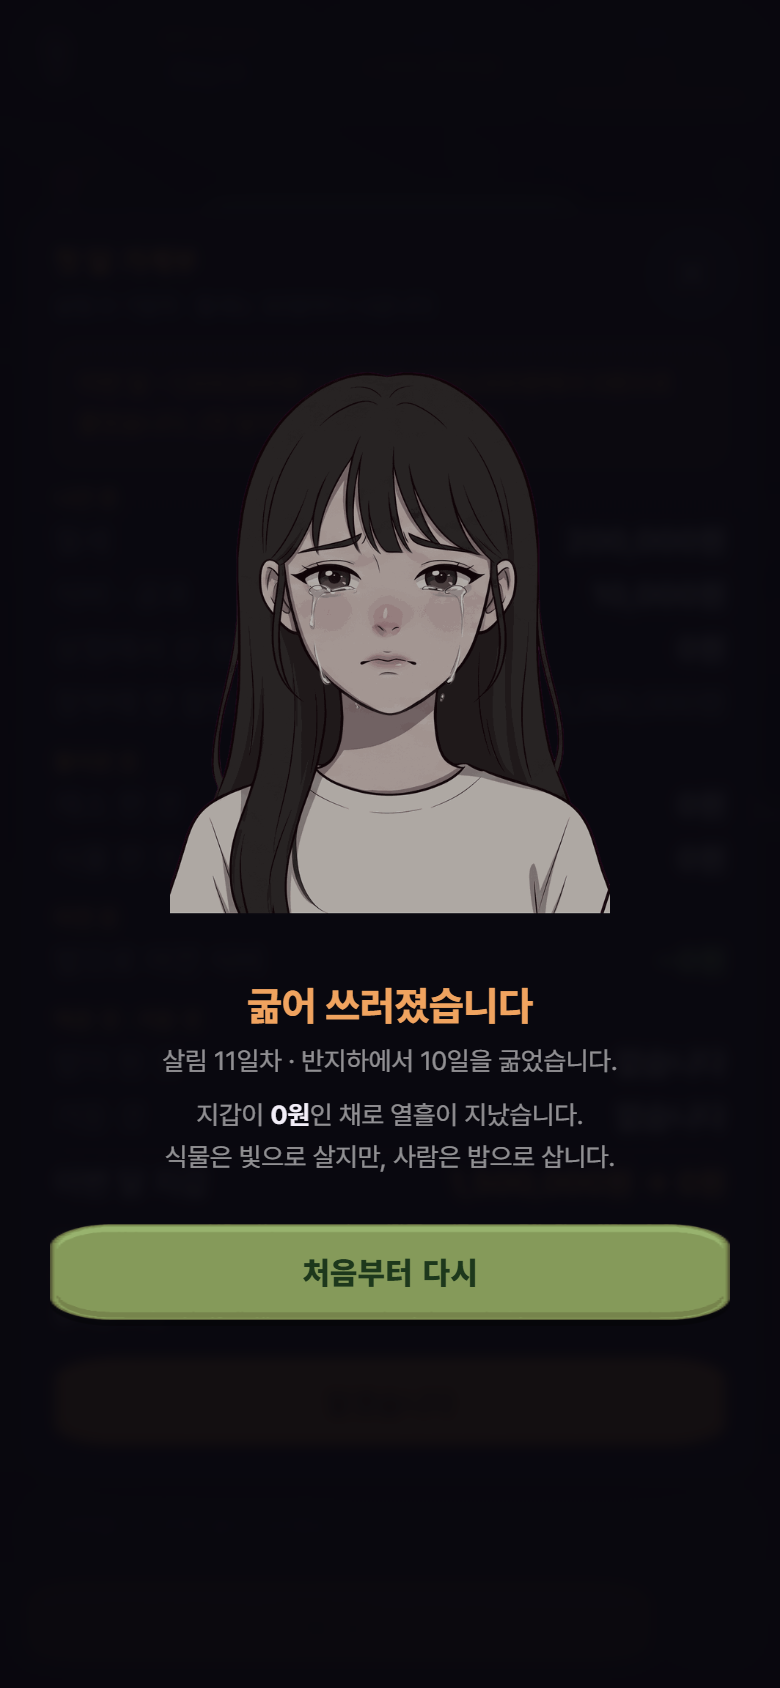
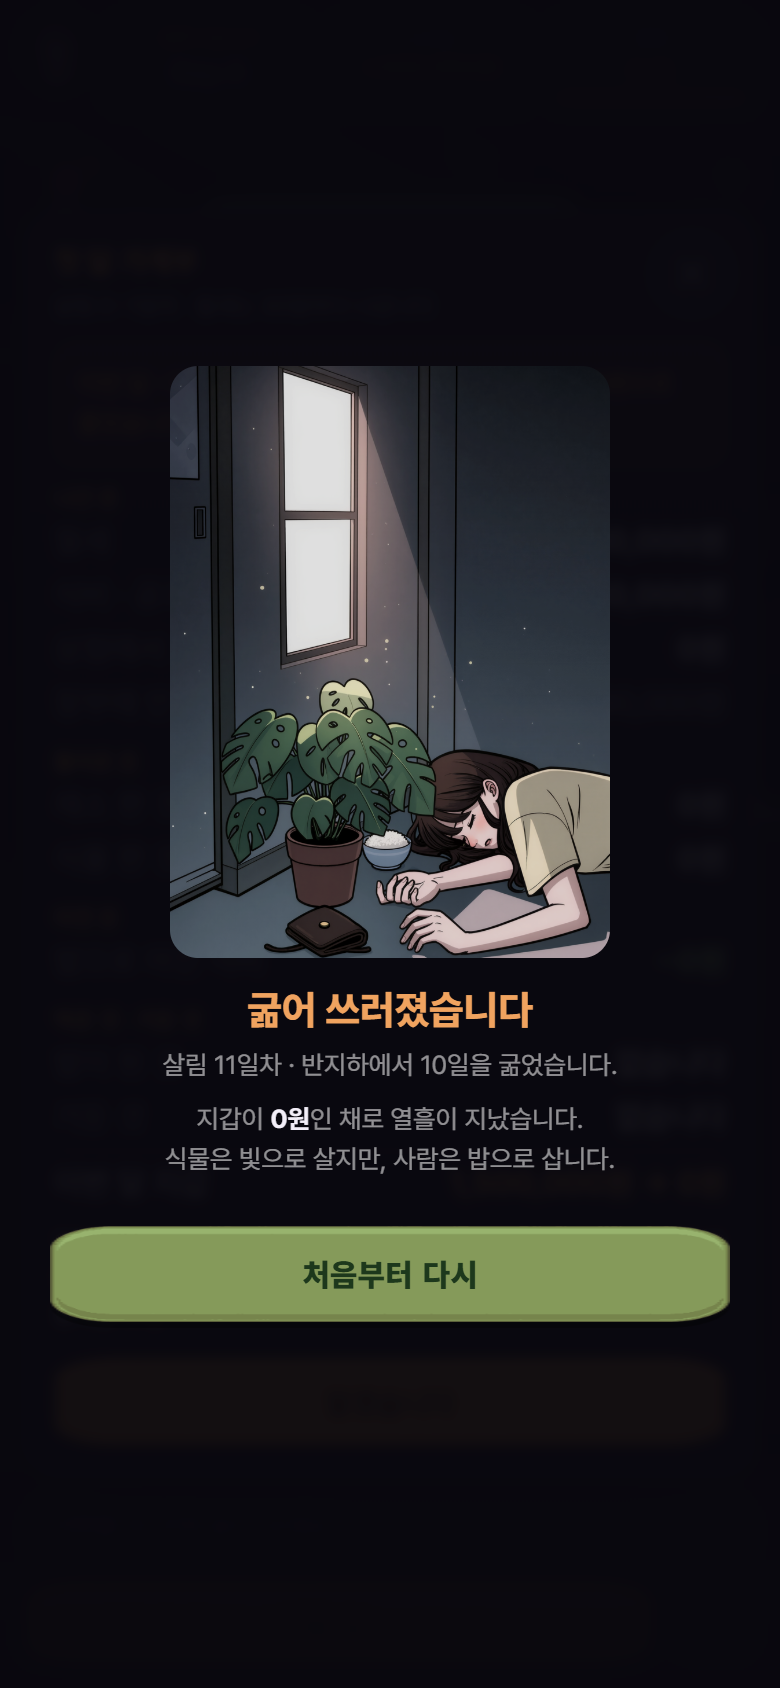
게임오버 원화(KLING) · 다시 시작할 때 WebGL 문맥을 놓아준다
★ 원화 — 박사님 *"클링으로 해, 원화"* · A안 확정.
  `kling-image-v3_0_omni` · 3:4 · 2k · 두 장 뽑아 A 를 골랐다. 방과 결이 맞는다:
  반지하의 높고 좁은 창 · 그 빛줄기 안에 선 몬스테라 · 쓰러진 사람 · 빈 지갑.
  1760×2368 원본을 **760px 로 줄여** 넣었다(4.3MB → 0.7MB). 대안(B)도 같이 남긴다.
  ⚠ 회색 필터를 걷었다 — 얼굴 초상과 달리 이건 **장면 그림**이라 색이 살아야 읽힌다.
  ⚠ 프롬프트에 「빈 밥그릇」이라 적었는데 **밥이 담긴 그릇**으로 나왔다. 작게 들어가
    티가 크지 않아 그대로 쓴다 — 다시 뽑으려면 크레딧이 또 든다(박사님 판단 필요).

★★ **다시 시작이 WebGL 문맥을 못 받던 것** (박사님 사진: *"다시 시작했는데 이렇게 나와"*
  → 「방을 그리지 못했습니다 — WebGL 문맥을 못 만들었습니다」)
  ⚠⚠ `renderer.dispose()` 는 **문맥을 안 버린다.** GPU 자원만 푼다 — 브라우저가 세는
    「살아 있는 WebGL 문맥」은 그대로 남는다. 그 수에는 천장이 있고(크롬 계열 대개 16),
    이 게임은 한 탭이 **둘**을 쓴다(방 + 확대창 iframe). 사진의 탭이 **열 개**였다.
  ⇒ `forceContextLoss()` 로 명시적으로 놓고, 다시 시작하는 두 길(게임오버 · 저장 지우기)이
    떠나기 **전에** 방을 치우고 확대창 iframe 을 비운다(§releaseGL).
  ⚠ 실패해도 떠나는 것은 안 막는다 — 못 치웠다고 다시 시작을 못 하면 그게 더 나쁘다.

Changed region(s): [[0.2154, 0.2156, 0.8, 0.7085], [0.4, 0.7393, 0.5231, 0.7701], [0.5538, 0.7393, 0.5846, 0.7701]]

diff --git a/game.html b/game.html
@@ -14,7 +14,7 @@
 <meta http-equiv="Pragma" content="no-cache">
 <meta http-equiv="Expires" content="0">
 <!-- 지금 보고 있는 판이 언제 것인지. 캐시가 의심되면 이걸 본다 -->
-<meta name="byeot-build" content="2026-08-17T-gameover">
+<meta name="byeot-build" content="2026-08-17T-art">
 <!-- ★★ 글씨 (2026-08-06 박사님: "글씨체가 이상해. 한글이 안 읽히네 뭔가. 잘 안 보여").
      Pretendard 를 **실제로 받아 온다.** 이름만 적어 두면 그 글씨가 깔린 기계에서만 보이고,
      안 깔린 기계에서는 조용히 system-ui 로 떨어진다 — 화면이 기계마다 달라진다.
@@ -1226,7 +1226,7 @@
   #gameOver.on{display:flex}
   #gameOver .card{max-width:340px;width:100%}
   #gameOver img{width:min(62vw,220px);height:auto;display:block;margin:0 auto 14px;
-    border-radius:14px;filter:grayscale(.55) brightness(.72) contrast(1.05)}
+    border-radius:14px;filter:brightness(.86) contrast(1.04)}
   #gameOver h2{font-size:20px;font-weight:800;color:#f0a35f;margin:0 0 6px}
   #gameOver p{font-size:13px;line-height:1.6;color:var(--dim);margin:0 0 6px}
   #gameOver b{color:var(--ink)}
@@ -1524,7 +1524,7 @@
   <!-- ★ 게임오버 덮개 — 무대 밖이다. 방·시트·말풍선을 전부 가려야 한다(§gameOver) -->
   <div id="gameOver" role="alertdialog" aria-hidden="true">
     <div class="card">
-      <img id="gameOverArt" src="./assets/characters/portraits/portrait_jachwi_cry.png" alt="">
+      <img id="gameOverArt" src="./assets/ui/gameover/gameover_starved.png" alt="">
       <h2>굶어 쓰러졌습니다</h2>
       <p id="gameOverWhy"></p>
       <p>지갑이 <b>0원</b>인 채로 열흘이 지났습니다.<br>
@@ -3994,6 +3994,7 @@ function showBuild() {
     saveOff = true;
     if (saveTimer != null) { clearTimeout(saveTimer); saveTimer = null; }
     try { localStorage.clear(); } catch { }
+    releaseGL();                       /* ★ 옛 문맥을 놓고 나간다(§releaseGL) */
     location.replace(location.pathname + '?v=' + Date.now());
   };
 }
@@ -4052,6 +4053,14 @@ function openZoomFor(pot) {
   g.__wrapped = true;
 })();
 
+/* ★★ 2026-08-17 — **떠나기 전에 3D 문맥을 놓는다** (박사님: 다시 시작했더니
+   「WebGL 문맥을 못 만들었습니다」). 브라우저가 세는 살아 있는 문맥에는 천장이 있고
+   이 게임은 한 탭이 둘을 쓴다(방 + 확대창). 안 놓고 새로 열면 새 판이 문맥을 못 받는다.
+   ⚠ 실패해도 떠나는 것은 막지 않는다 — 못 치웠다고 다시 시작을 못 하면 그게 더 나쁘다. */
+function releaseGL() {
+  try { if (roomView && roomView.dispose) roomView.dispose(); } catch (e) { console.warn('[나가기] 방 치우기', e && e.message); }
+  try { const f = $('growth'); if (f) f.src = 'about:blank'; } catch { }
+}
 function bindDetail() {
   /* ★ 할 일 쪽지를 누르면 [할 일] 탭 — 요약을 보고 그 자리에서 자세히 볼 수 있어야 한다 */
   { const c = $('questChip');
@@ -4064,6 +4073,7 @@ function bindDetail() {
       saveOff = true;
       if (saveTimer != null) { clearTimeout(saveTimer); saveTimer = null; }
       try { localStorage.clear(); } catch { }
+      releaseGL();                     /* ★ 옛 문맥을 놓고 나간다(§releaseGL) */
       location.replace(location.pathname + '?v=' + Date.now());
     }; }
   $('meChip').onclick = () => detail.open('me');

diff --git a/src/game/room_view.js b/src/game/room_view.js
@@ -9754,6 +9754,18 @@ export async function createRoomView(canvas, opts = {}) {
       disposeOutside();
       disposeObject(ctx.scene);
       ctx.renderer.dispose();
+      /* ★★★ 2026-08-17 — **문맥을 실제로 놓아준다** (박사님: 다시 시작했더니
+           *"방을 그리지 못했습니다 — WebGL 문맥을 못 만들었습니다"*).
+         ══════════════════════════════════════════════════════════════════
+         ⚠⚠ `renderer.dispose()` 는 **문맥을 안 버린다.** GPU 자원만 푼다 —
+           브라우저가 세는 「살아 있는 WebGL 문맥」은 그대로 남는다. 그 수에는
+           천장이 있고(크롬 계열은 대개 16), 이 게임은 한 탭이 **둘**을 쓴다
+           (방 + 확대창 `plant_grow` iframe). 탭 여럿을 열어 두면 금세 찬다.
+         ⇒ `forceContextLoss()` 로 명시적으로 놓는다. 이걸 안 부르면 다시 시작할 때
+           옛 문맥이 아직 살아 있어, 새 판이 문맥을 못 받아 방이 통째로 안 뜬다.
+         ⚠ 던질 수 있다(이미 잃은 문맥이면) — 치우다 난 오류로 나머지를 못 치우면 안 된다. */
+      try { if (typeof ctx.renderer.forceContextLoss === 'function') ctx.renderer.forceContextLoss(); }
+      catch (e) { console.warn('[방뷰] 문맥 놓기', e && e.message); }
     }
   };
 
